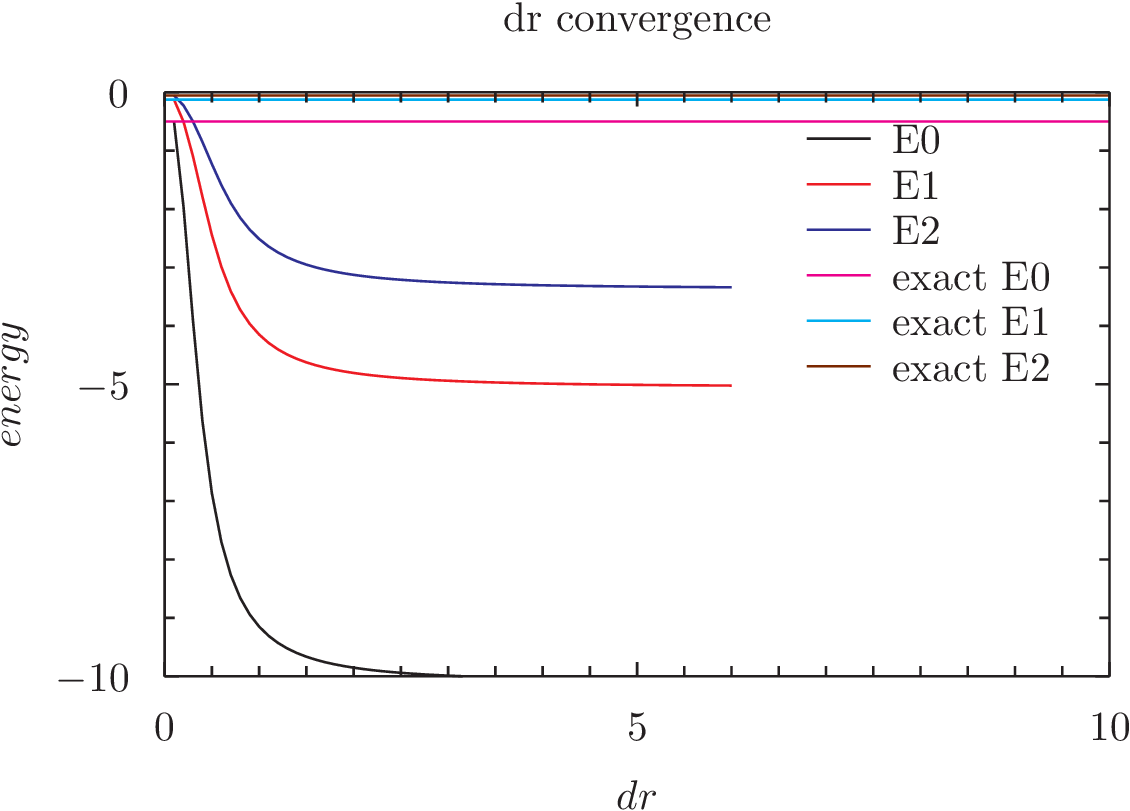
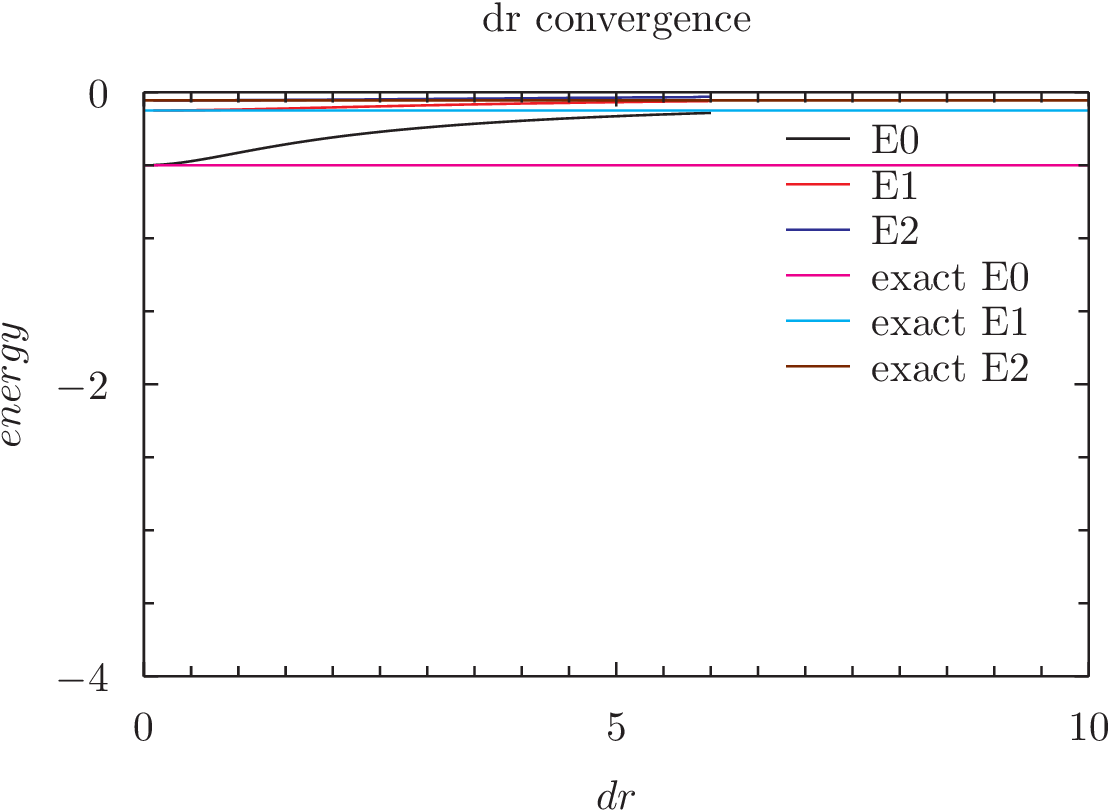
NOW I think eigenvalue B is correct

diff --git a/homeworks/eigenvalues/B/main.cs b/homeworks/eigenvalues/B/main.cs
@@ -1,9 +1,10 @@
 using System;
 using static System.Console;
 using System.IO;
+using static System.Math;
 
 class main{
-    static double rmax = 10; //max integration value
+    static double rmax = 35; //max integration value
     static int N = 100; //number of points in grid
     static double dr = rmax/(N+1); //stepsize
     static vector r = new vector(N);
@@ -16,6 +17,7 @@ class main{
         //V.print();
         rmaxConvergence();
         drConvergence();
+        //drConv();
     }
 
     public static matrix makeH(){
@@ -69,35 +71,33 @@ class main{
             }
         }
     }
-
     public static void drConvergence(){
-        WriteLine("As expected dr converges for low dr, but goes far from result for higher dr");
-        using(var outfile = new StreamWriter("drConvergence.txt")){
-            double rmax = 35;
-            for(double varydr=0.1; varydr<6;varydr+=0.1){ //getting the eigenvalues out at different dr values. Going up to a max
-                int N = (int)(rmax/varydr-1);
-                vector r = new vector(N);
-                for(int i=0;i<N;i++){
-                    r[i]=dr*(i+1);
+		WriteLine("For dr convgerence we see they approximate the exact solutions well for small dr");
+        WriteLine();
+        WriteLine("but for larger dr they all go to the same eigenvalue.");
+		using(var outfile = new StreamWriter("drConvergence.txt")){
+			for(double varydr = 0.1; varydr<6;varydr+=0.1){
+				int N = (int) (rmax/varydr-1);
+				vector r = new vector(N);
+				for(int i=0; i<N; i++){
+                    r[i]=varydr*(i+1);
+                }
+				matrix H = new matrix(N,N);
+				for(int i=0;i<N-1;i++){
+					matrix.set(H,i,i,-2);
+					matrix.set(H,i,i+1,1);
+					matrix.set(H,i+1,i,1);
+				}
+				matrix.set(H,N-1,N-1,-2);
+				H*=-0.5/varydr/varydr;
+				for(int i=0;i<N;i++){
+                    H[i,i] += -1/r[i];
                 }
 
-                matrix H = new matrix(N,N);
+				(matrix D, matrix V) = Jacobi.cyclic(H);
 
-                for(int i=0;i<N-1;i++){
-                    matrix.set(H,i,i,-2);
-                    matrix.set(H,i,i+1,1);
-                    matrix.set(H,i+1,i,1);
-                }
-                matrix.set(H,N-1,N-1,-2);
-                H*=-0.5/varydr/varydr;
-
-                for(int i=0;i<N;i++){
-                    H[i,i]+=-1/r[i];
-                }
-                (matrix D, matrix V) = Jacobi.cyclic(H);
-                outfile.WriteLine($"{varydr} {D[0][0]} {D[1][1]} {D[2][2]}"); //D matrix is stupidly huge, but
-                //since the eigenvalues are ordered with the numerically largest first, we focus on the first 3.
-            }
-        }
+				outfile.WriteLine($"{varydr} {D[0,0]} {D[1,1]} {D[2,2]}");
+			}
+		}
     }
 }

diff --git a/homeworks/ode/A/ode.cs b/homeworks/ode/A/ode.cs
@@ -1,0 +1,16 @@
+using System;
+
+public class ode{
+    public static (vector,vector) rkstep12(
+        Func<double,vector,vector> f, /* the f from dy/dx=f(x,y) */
+        double x,   /* the current value of the variable */
+        vector y,   /* the current value y(x) of the sought function */
+        double h    /* the step to be taken */
+    ){ // Runge-Kutta Euler/Midpoint method (probably not the most effective)
+        vector k0 = f(x,y); /* embedded lower order formula (Euler) */
+        vector k1 = f(x+h/2,y+k0*(h/2)); /* higher order formula (midpoint) */
+        vector yh = y+k1*h;     /* y(x+h) estimate */
+        vector er = (k1-k0)*h;  /* error estimate */
+        return (yh,er);
+    }
+}
